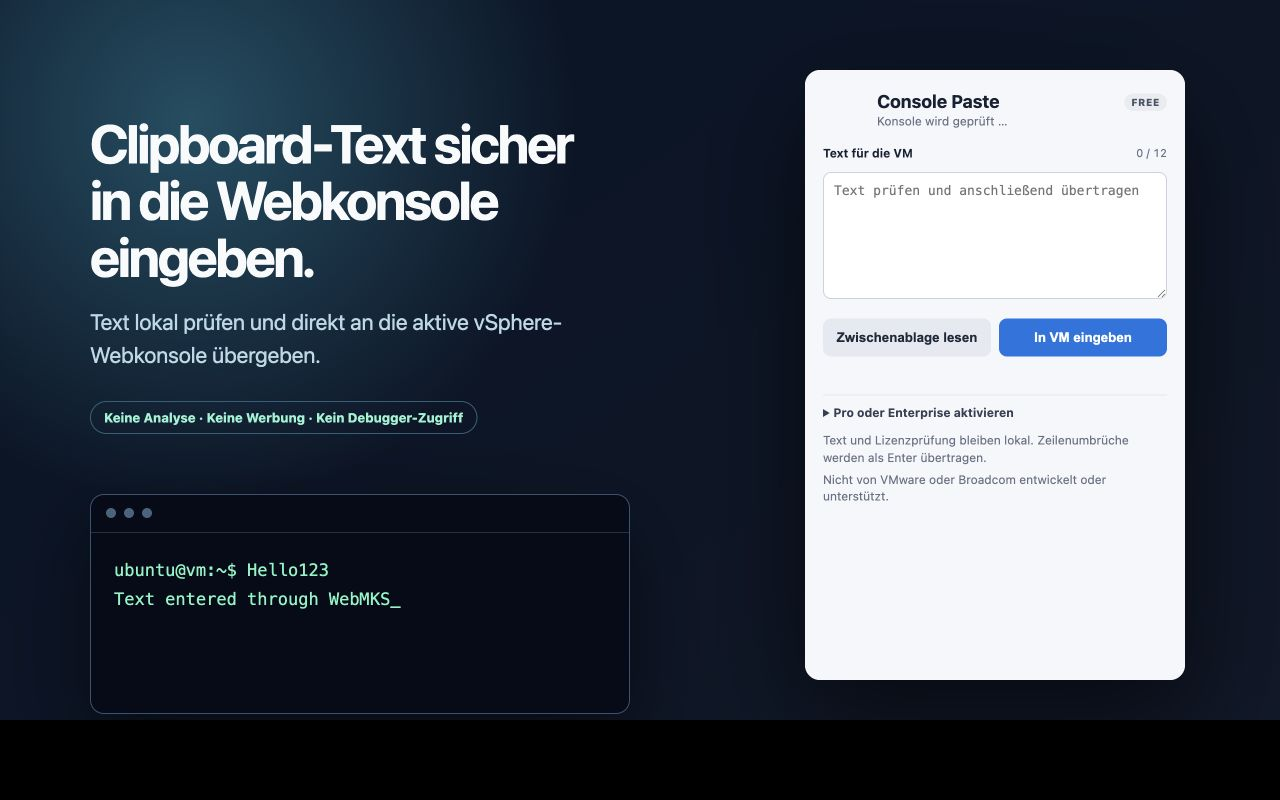
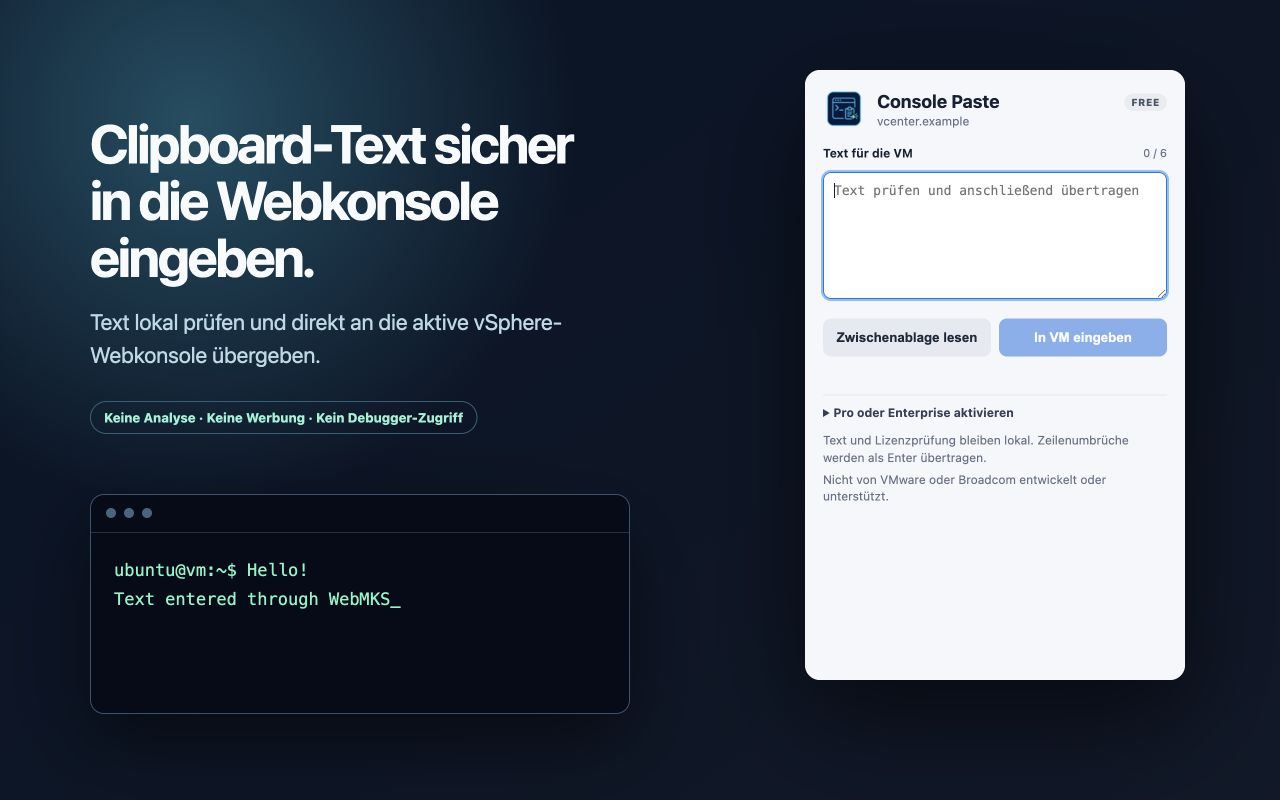
Reduce Free transfer limit to six characters

diff --git a/docs/ui/webconsole.html b/docs/ui/webconsole.html
@@ -32,7 +32,7 @@
     </header>
     <main>
       <div id="wmksContainer" class="console"><canvas width="800" height="1"></canvas><span id="output">demo@vm:~$ </span></div>
-      <p class="hint">Open Console Paste for vSphere and send up to 12 characters.</p>
+      <p class="hint">Open Console Paste for vSphere and send up to 6 characters.</p>
     </main>
     <script>
       window.WMKS = { demo: true };

diff --git a/test/popup-harness.html b/test/popup-harness.html
@@ -20,7 +20,7 @@
       </header>
       <div class="field-heading">
         <label for="text">Text für die VM</label>
-        <span id="counter">0 / 12</span>
+        <span id="counter">0 / 6</span>
       </div>
       <textarea id="text" rows="7" spellcheck="false" placeholder="Text prüfen und anschließend übertragen"></textarea>
       <div class="actions">

diff --git a/test/store-preview.html b/test/store-preview.html
@@ -98,7 +98,7 @@
     </section>
     <div class="terminal">
       <div class="terminal-bar"><span></span><span></span><span></span></div>
-      <pre>ubuntu@vm:~$ Hello123
+      <pre>ubuntu@vm:~$ Hello!
 Text entered through WebMKS_
       </pre>
     </div>

diff --git a/popup.html b/popup.html
@@ -21,7 +21,7 @@
 
       <div class="field-heading">
         <label for="text">Text für die VM</label>
-        <span id="counter">0 / 12</span>
+        <span id="counter">0 / 6</span>
       </div>
       <textarea
         id="text"

diff --git a/service-worker.js b/service-worker.js
@@ -1,6 +1,6 @@
 importScripts("license.js");
 
-const FREE_CHARACTER_LIMIT = 12;
+const FREE_CHARACTER_LIMIT = 6;
 
 function isConsoleUrl(value) {
   try {

diff --git a/popup.js b/popup.js
@@ -1,4 +1,4 @@
-const FREE_CHARACTER_LIMIT = 12;
+const FREE_CHARACTER_LIMIT = 6;
 
 const elements = {
   text: document.querySelector("#text"),

diff --git a/docs/STORE_REVIEW_INSTRUCTIONS.md b/docs/STORE_REVIEW_INSTRUCTIONS.md
@@ -20,19 +20,19 @@ not connected to a VM.
 
 1. Open the reviewer demo.
 2. Open the extension popup.
-3. Enter `Hello123`.
+3. Enter `Hello!`.
 4. Select **In VM eingeben**.
 5. Confirm that the text appears after the demo prompt.
-6. Enter 13 characters and confirm that Free prevents the transfer.
+6. Enter 7 characters and confirm that Free prevents the transfer.
 
 ## Review with vSphere
 
 1. Open a VM in a separate vSphere 8 web console.
 2. Open the extension.
-3. Enter `Hello123`.
+3. Enter `Hello!`.
 4. Select **In VM eingeben**.
 5. Confirm that the text appears in the VM console.
-6. Enter 13 characters and confirm that Free prevents the transfer.
+6. Enter 7 characters and confirm that Free prevents the transfer.
 
 ## Security notes
 

diff --git a/README.md b/README.md
@@ -9,7 +9,7 @@ debugger permission.
 
 ## Plans
 
-- **Free:** up to 12 Unicode characters per transfer
+- **Free:** up to 6 Unicode characters per transfer
 - **Pro:** unlimited characters with an offline signed license
 - **Enterprise:** unlimited characters and managed Chrome policy deployment
 

diff --git a/docs/LICENSING.md b/docs/LICENSING.md
@@ -1,6 +1,6 @@
 # Licensing operations
 
-Free allows 12 Unicode characters per transfer. Pro and Enterprise remove that
+Free allows 6 Unicode characters per transfer. Pro and Enterprise remove that
 limit after an Ed25519-signed license is activated.
 
 ## Private key

diff --git a/docs/STORE_LISTING.md b/docs/STORE_LISTING.md
@@ -19,7 +19,7 @@ API.
 
 Free:
 
-- Up to 12 characters per transfer
+- Up to 6 characters per transfer
 - Local clipboard processing
 - No account, analytics, advertising, or telemetry
 
